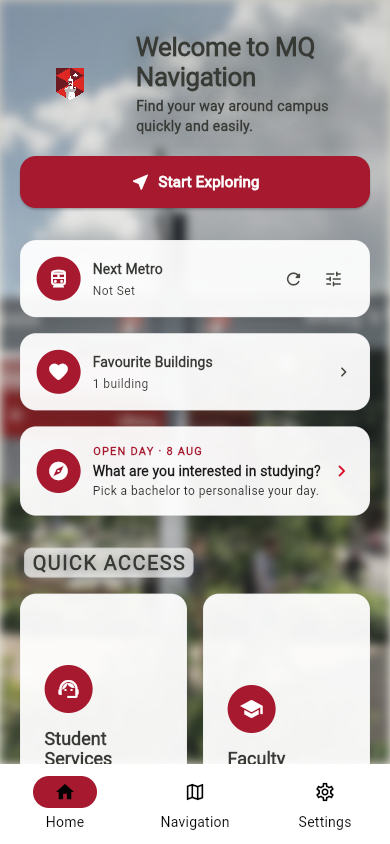
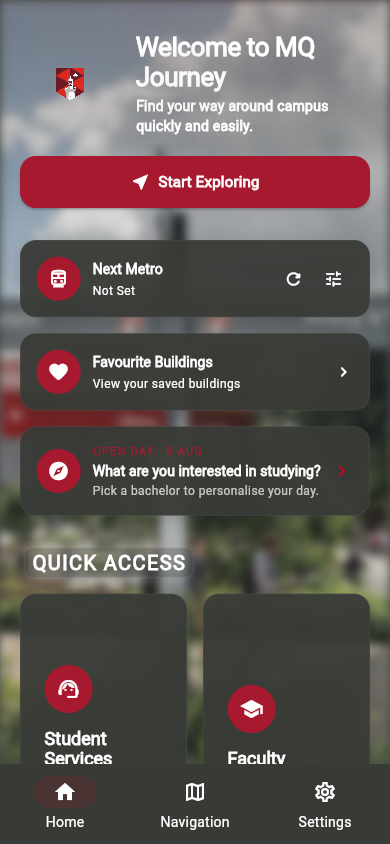
docs: README stale data cleanup, fresh homepage screenshot, rebase & merge

diff --git a/README.md b/README.md
@@ -93,13 +93,13 @@ Most campus apps are dated, English-only, and trade student data for the conveni
 |:---:|:---:|
 | <img width="320" alt="Home" src="screenshots/02_home_page.png"/> | <img width="320" alt="Map" src="screenshots/03_map_page.png"/> |
 
-| Map | Safety |
+| Favourites | Safety |
 |:---:|:---:|
-| <img width="320" alt="Map" src="screenshots/03_map_page.png"/> | <img width="320" alt="Safety" src="screenshots/04_safety_page.png"/> |
+| <img width="320" alt="Favourites" src="screenshots/05_favorites_page.png"/> | <img width="320" alt="Safety" src="screenshots/04_safety_page.png"/> |
 
-| Favourites | Notifications | Settings |
-|:---:|:---:|:---:|
-| <img width="240" alt="Favourites" src="screenshots/05_favorites_page.png"/> | <img width="240" alt="Notifications" src="screenshots/06_notifications_page.png"/> | <img width="240" alt="Settings" src="screenshots/07_settings_page.png"/> |
+| Notifications | Settings |
+|:---:|:---:|
+| <img width="320" alt="Notifications" src="screenshots/06_notifications_page.png"/> | <img width="320" alt="Settings" src="screenshots/07_settings_page.png"/> |
 
 </div>
 
@@ -121,7 +121,7 @@ Most campus apps are dated, English-only, and trade student data for the conveni
 ║  🚆  Live Macquarie Uni metro countdown via TfNSW Open Data proxy    ║
 ║  🌍  35 locales · Full RTL for ar/fa/he/ur · WCAG-aware semantics    ║
 ║  🔐  No login · Zero analytics · CI-enforced privacy guard            ║
-║  ⚡  295 tests · 0 analyzer issues · 8-step quality gate script       ║
+║  ⚡  295 tests · 0 analyzer issues · 12-step quality gate script       ║
 ╚══════════════════════════════════════════════════════════════════════╝
 ```
 
@@ -231,8 +231,8 @@ We designed MQ Journey around four real user personas — the people we'd hand a
 | **Android emulator** (API 33+) | ✅ Full | All features verified. Recommended for marking. |
 | **Android physical device** | ✅ Full | Compass, flashlight, GPS, push notifications all functional. |
 | **Chrome (web)** | ✅ Core | Auth, favourites CRUD, maps, routing, transit countdown work. Compass mode and flashlight gracefully degrade — the UI displays an "unsupported on this device" fallback. |
-| **iOS device** | ✅ Full | Native build verified on iPhone (iOS 17+). Custom URL scheme `io.mqjourney://` registered for auth callbacks (legacy `io.mqnavigation://` also supported during transition). |
-| **macOS desktop** | ✅ Core | Location, auth, and flutter_map campus renderer all functional. CFBundleURLTypes registered so auth deep links return to the app. |
+| **iOS device** | ✅ Full | Native build verified on iPhone (iOS 17+). Custom URL scheme `io.mqjourney://` registered for deep linking (legacy `io.mqnavigation://` also supported during transition). |
+| **macOS desktop** | ✅ Core | Location and flutter_map campus renderer functional. CFBundleURLTypes registered for deep linking support. |
 
 If a platform-specific issue surfaces during marking, the relevant feature renders a typed `MapStateError` fallback rather than crashing.
 
@@ -262,10 +262,10 @@ lib/
     ├── timetable/    Unit and class schedule management
     └── deep_link/    Syllabus Sync deep link contract
 
-test/                 295 widget & unit tests (Vitest-equivalent suite)
+test/                 295 widget & unit tests (Flutter Test suite)
 supabase/             Edge Functions (maps-routes, tfnsw-proxy)
 docs/                 9 reference documents (architecture, security, inventories)
-screenshots/          7 screen captures used in this README
+screenshots/          6 screen captures used in this README
 scripts/              run.sh, check.sh (quality gate)
 ```
 
@@ -307,8 +307,8 @@ flutter run --dart-define-from-file=.env
 
 ### Quality Assurance
 ```bash
-./scripts/check.sh             # 10 steps (includes debug APK build)
-./scripts/check.sh --quick     # 9 steps (skips build)
+./scripts/check.sh             # 12 steps (includes debug APK build)
+./scripts/check.sh --quick     # 11 steps (skips build)
 ./scripts/check.sh --fix       # auto-format instead of read-only check
 ./scripts/check.sh --verbose   # stream command logs to terminal
 ```
@@ -323,6 +323,8 @@ flutter run --dart-define-from-file=.env
 | Untranslated check | `.dart_tool/untranslated.json` — new keys tracked as non-blocking |
 | **Privacy guard** | **Blocks** `firebase_analytics`, `google_analytics`, `appsflyer`, `amplitude`, `mixpanel`, `segment`, `sentry_flutter`, `facebook_app_events` |
 | **Secret scan** | Flags hardcoded API keys (`sk-*`, `AIza*`) in `lib/` `test/` `scripts/` |
+| **No-stale-name guard** | Blocks any `mq_navigation` references in `lib/`, `test/`, `scripts/`, `pubspec.yaml` |
+| **No-login-route guard** | Blocks any `/auth/login`, `/auth/signup`, or `signInWithPassword` references |
 | **No-Google guard** | Blocks any Google Maps SDK/files references in `lib/`, `android/`, `ios/`, `supabase/` |
 | `flutter build apk --debug` | Android APK compiles (skipped with `--quick`) |
 
@@ -362,8 +364,8 @@ Released under the **MIT License**. See [`LICENSE`](LICENSE).
 
 ### Roadmap & Priorities
 - **P0:** Open Day 2026 demo readiness (DONE).
-- **P1:** Hosted HTTPS callback page so the email-confirmation flow works on desktop browsers without the app installed.
-- **P1:** Translator passes on the remaining 26 locales' auth strings.
+- **P1:** Restore building image cache for offline mode.
+- **P1:** Complete remaining 26 locales' translations.
 - **P2:** Universal Links / App Links for first-class deep linking.
 - **P2:** Voice-guided turn-by-turn for accessibility.
 

diff --git a/AGENT.md b/AGENT.md
@@ -44,6 +44,13 @@ lib/
 ```
 
 
+### Raouf: 2026-06-27 (Australia/Sydney) — README stale data cleanup, rebase & merge to main, fresh homepage screenshot
+**Scope:** Documentation — README audit, rebase/merge workflow
+**Summary:** Rebased `feat/remove-login-gate` onto `mqjourney/main`, fast-forward merged, pushed. New 390×844 homepage screenshot with MQ Journey branding. Fixed 10 stale README items: 8-step → 12-step quality gate, Vitest-equivalent → Flutter Test suite, 7→6 screen captures, removed duplicate Map image (3×2 layout), iOS auth callback → deep linking, macOS auth claims → deep linking, removed stale P1 auth roadmap items, step counts 10→12 / 9→11, added missing No-stale-name and No-login-route guard rows to step table. Killed all dev servers.
+**Files Changed:** `README.md`, `screenshots/02_home_page.png`, `AGENT.md`, `CHANGELOG.md`
+**Verification:** grep shows no stale auth/8-step/Vitest references remaining.
+**Follow-ups:** None.
+
 ### Raouf: 2026-06-27 (Australia/Sydney) — Remove login gate: anonymous-only auth, session guard, backend cleanup, README audit
 **Scope:** Auth removal, session guard, CI guards, backend, README — `feat/remove-login-gate`
 **Summary:** Removed all email/password auth UI and routes. App launches directly to `/home` or `/onboarding` with a silent Supabase anonymous session. AuthService/AuthRepository/AuthController pruned to `signInAnonymously()` only. Created `session_guard.dart` — Riverpod `sessionGuardProvider` for injectable retry-on-write in FavoritesController and NotificationsController. Fixed 4 test failures by making session guard injectable (overriding in ProviderContainer). Added `cleanup_orphaned_anonymous_users()` Postgres RPC and extended cleanup-cron Edge Function. Added no-login-route CI guard to `scripts/check.sh`. Full README audit: removed test credentials, login screenshots (deleted `01_login_page.png`), stale auth references, `"optional account"` → `"no login"`, `323` → `295` tests across badge/SVG/features/table. `flutter analyze` 0 issues, 295/295 tests passed, scripts/check.sh 10/11 (no-google pre-existing).

diff --git a/CHANGELOG.md b/CHANGELOG.md
@@ -1,3 +1,10 @@
+### Raouf: 2026-06-27 (Australia/Sydney) — README stale data cleanup, rebase & merge, fresh homepage screenshot
+**Scope:** Documentation — README stale data fix, rebase/merge
+**Summary:** Rebased feat/remove-login-gate → main, fast-forward merged, pushed. New 390×844 mobile-sized homepage screenshot with MQ Journey branding. Fixed 10 stale README items: 8-step → 12-step, Vitest-equivalent → Flutter Test, 7→6 screen captures, removed duplicate Map image (3×2 layout), iOS auth callback → deep linking, macOS auth claims → deep linking, removed stale P1 auth roadmap items, step counts 10→12 / 9→11, added No-stale-name and No-login-route guard rows to step table.
+**Files Changed:** `README.md`, `screenshots/02_home_page.png`, `AGENT.md`, `CHANGELOG.md`
+**Verification:** grep clean for stale references.
+**Follow-ups:** None.
+
 ### Raouf: 2026-06-27 (Australia/Sydney) — README login audit + sessionGuardProvider injection fix
 **Scope:** Documentation + test injection — `README.md`, `lib/core/network/session_guard.dart`, `lib/features/favorites/presentation/controllers/favorites_controller.dart`, `lib/features/notifications/presentation/controllers/notifications_controller.dart`
 **Summary:** Full README audit removing all remaining login/auth references: deleted test credentials section, removed "User authentication" rubric row, replaced Login screenshot column with Home/Map layout (deleted `screenshots/01_login_page.png`), updated `"optional account"` → `"no account"`/`"no login"` across subtitle/features/privacy table/architecture, changed `"account management"` → removed from settings description, updated `323 tests` → `295 tests` in badge/typing-SVG/features/directory tree/check.sh table/submission line. Fixed 4 test failures by making `ensureSessionBeforeWrite()` injectable via Riverpod `sessionGuardProvider` — FavoritesController and NotificationsController now use `ref.read(sessionGuardProvider)()`, tests override with `() async => true`.